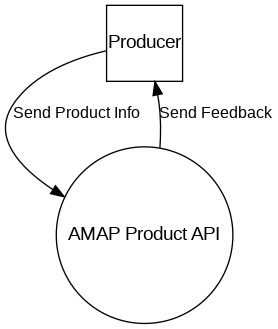
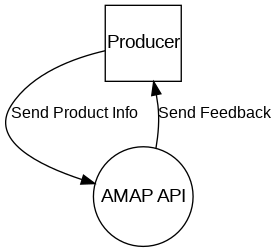
Add Level 0 and 1 DFDs - Create Product

diff --git a/deliverables/phase1/diagrams/DFD/Create Product/amapp_dfd_create_product_0.py b/deliverables/phase1/diagrams/DFD/Create Product/amapp_dfd_create_product_0.py
@@ -7,7 +7,7 @@ tm.description = "Context DFD (Level 0) for product creation in the AMAP API"
 producer = Actor("Producer")
 producer.description = "User that creates products"
 
-amap_api = Process("AMAP Product API")
+amap_api = Process("AMAP API")
 amap_api.description = "API that receives and processes product creation requests"
 
 # Dados

diff --git a/deliverables/phase1/diagrams/DFD/Create Product/amapp_dfd_create_product_1.py b/deliverables/phase1/diagrams/DFD/Create Product/amapp_dfd_create_product_1.py
@@ -22,7 +22,7 @@ result = Data("Operation Result")
 
 # Trust Boundaries
 producer_zone = Boundary("User Zone")
-app_zone = Boundary("System Zone")
+app_zone = Boundary("AMAP API Zone")
 db_zone = Boundary("Database Zone")
 
 # Assigning elements to boundaries

diff --git a/deliverables/phase1/report.md b/deliverables/phase1/report.md
@@ -257,13 +257,50 @@ a payment date is due.
 
 ![DFD Create Product Level 0](diagrams/DFD/Create%20Product/amapp_dfd_create_product_0.png)
 
-*_[Blablabla]_*
+The Level 0 DFD represents a high-level view of the product creation system, focusing on the interaction between the external actor (producer) and the AMAP API system.
+
+- **External Actor:**
+  - `Producer`: The user who intends to create a product.
+
+- **Main Process:**
+  - `AMAP API`: Interface responsible for receiving product creation requests, processing them, and returning feedback to the producer.
+
+- **Data Flows:**
+  - `Send Product Info`: The producer sends product data (name, description, price, etc.) to the API via HTTPS.
+  - `Send Feedback`: After processing, the API returns a response (success, error, or validation messages) to the producer.
+
+This diagram simply shows who interacts with the system and what data is exchanged, without yet detailing the internal processes.
 
 #### Level 1
 
 ![DFD Create Product Level 1](diagrams/DFD/Create%20Product/amapp_dfd_create_product_1.png)
 
-*_[Blablabla]_*
+The Level 1 DFD deepens the details of the product creation process by breaking down the API into internal subprocesses and introducing data storage and trust boundaries.
+
+- **External Actors:**
+  - `Producer`: Remains the user who initiates the process.
+
+- **Subprocesses:**
+  - `Validate Input`: Validates the data received from the producer (checks required fields, formats, etc.).
+  - `Store Product`: Stores the validated product in the database.
+  - `Send Response`: Generates and sends a response with the operation result.
+
+- **Data Storage:**
+  - `Product DB`: The database where validated products are stored.
+
+- **Data Flows:**
+  - `Submit Product`: The producer sends product data for validation.
+  - `Validated Data`: Verified data is passed to the storage process.
+  - `Save to DB`: The product is saved into the database.
+  - `Operation Outcome`: The result of the storage operation is passed to the response process.
+  - `Return Result`: The response is sent back to the producer.
+
+- **Trust Boundaries:**
+  - `User Zone`: Where the producer resides (external environment).
+  - `AMAP API Zone`: Where internal API processes occur.
+  - `Database Zone`: Where the database resides, typically with stricter access controls.
+
+This level shows in greater detail how the system processes and stores data, helping to identify potential security threats and ensure proper handling of information across different trust zones.
 
 ---
 

diff --git a/deliverables/phase1/diagrams/DFD/Create Product/amapp_dfd_create_product_report.md b/deliverables/phase1/diagrams/DFD/Create Product/amapp_dfd_create_product_report.md
@@ -12,7 +12,7 @@ Level 1 DFD for product creation in AMAP
 
 ## Dataflow Diagram - Level 1 DFD
 
-![](amap_dfd_level1.png)
+![Dataflow Diagram](amapp_dfd_create_product_1.png)
 
 &nbsp;
 
